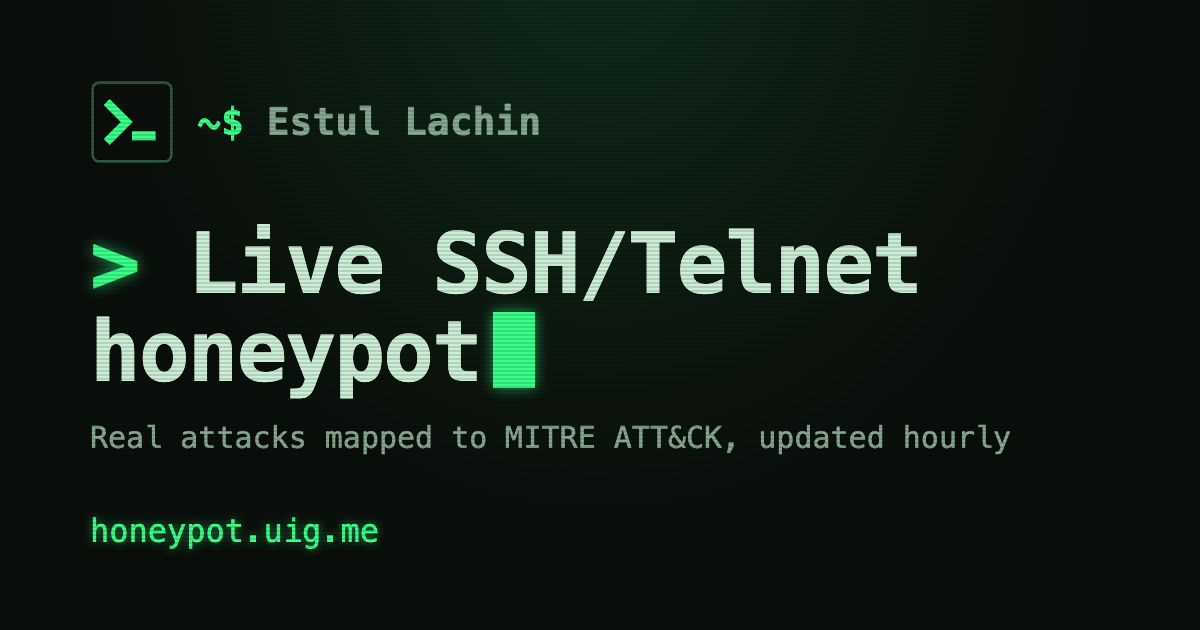
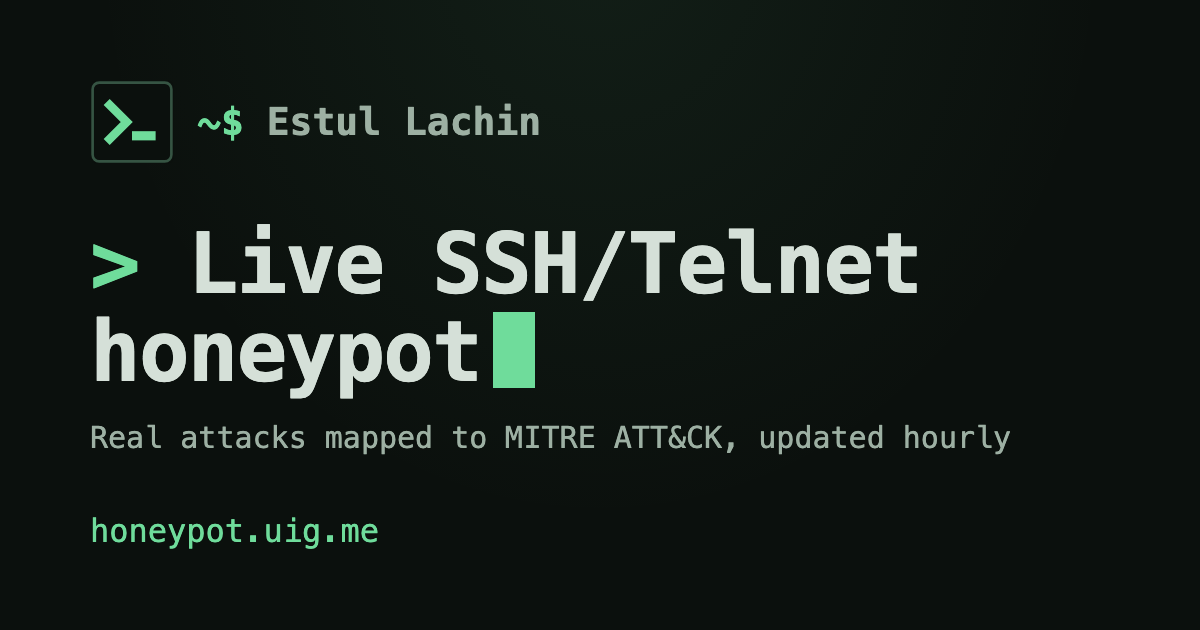
Calmer theme: no glow, no scanlines, softer accent
The neon green, text glow and CRT scanlines were tiring to read. The shared
block now uses a softer accent (#6fdc9b), neutral off-white text, no glow and
no scanline overlay, and the header cursor blinks four times, then stays solid.
The favicon and link-preview image are recoloured to match.

diff --git a/site/style.css b/site/style.css
@@ -4,21 +4,21 @@
 
 
 :root {
-  --bg: #0a0f0b;
-  --surface: #0f1712;
-  --text: #cdeed6;
-  --muted: #86a891;
-  --dim: #6f8f79;
-  --border: #20392a;
-  --border-strong: #2f5a41;
-  --accent: #39ff88;
-  --accent-2: #4fd6ff;
-  --warn: #ffb347;
-  --danger: #ff5c7a;
-  --ok: #39ff88;
-  --chip: #12211a;
-  --code-bg: #0c1a12;
-  --glow: 0 0 6px rgba(57, 255, 136, 0.45);
+  --bg: #0b100d;
+  --surface: #111915;
+  --text: #d5e0d8;
+  --muted: #9db0a3;
+  --dim: #7a8d80;
+  --border: #223329;
+  --border-strong: #365443;
+  --accent: #6fdc9b;
+  --accent-2: #7cc4e4;
+  --warn: #e6b36a;
+  --danger: #ee8090;
+  --ok: #6fdc9b;
+  --chip: #16221c;
+  --code-bg: #0f1813;
+  --glow: none; /* no blurred text: it tires the eyes */
   --radius: 2px;
   --font: ui-monospace, SFMono-Regular, "SF Mono", Menlo, Consolas, "Liberation Mono", monospace;
   --mono: var(--font);
@@ -46,17 +46,10 @@ body {
   margin: 0;
   min-height: 100vh;
   background:
-    radial-gradient(ellipse at 50% -10%, rgba(57, 255, 136, 0.07), transparent 60%),
+    radial-gradient(ellipse at 50% -10%, rgba(111, 220, 155, 0.04), transparent 60%),
     var(--bg);
   color: var(--text);
   font: 15px/1.7 var(--font);
-}
-
-/* CRT scanlines: static, decorative, never intercepts clicks */
-body::before {
-  content: ""; position: fixed; inset: 0; z-index: 100; pointer-events: none;
-  background: repeating-linear-gradient(to bottom, rgba(0, 0, 0, 0) 0, rgba(0, 0, 0, 0) 2px,
-    rgba(0, 0, 0, 0.18) 3px, rgba(0, 0, 0, 0) 4px);
 }
 
 ::selection { background: var(--accent); color: var(--bg); }
@@ -71,7 +64,7 @@ a:hover { text-decoration: underline; text-underline-offset: 3px; text-shadow: v
 [id] { scroll-margin-top: 72px; }
 
 .site-header {
-  border-bottom: 1px solid var(--border); background: rgba(10, 15, 11, 0.85);
+  border-bottom: 1px solid var(--border); background: rgba(11, 16, 13, 0.92);
   position: sticky; top: 0; z-index: 10; backdrop-filter: blur(6px);
 }
 .site-header .wrap { display: flex; align-items: center; justify-content: space-between; height: 56px; gap: 16px; }
@@ -80,7 +73,7 @@ a:hover { text-decoration: underline; text-underline-offset: 3px; text-shadow: v
 .brand::after {
   content: ""; display: inline-block; width: 0.55em; height: 1.05em; margin-left: 4px;
   vertical-align: -0.15em; background: var(--accent); box-shadow: var(--glow);
-  animation: blink 1.1s steps(1) infinite;
+  animation: blink 1.1s steps(1) 4; /* blinks a few times, then stays solid */
 }
 .brand:hover { text-decoration: none; }
 .site-header nav { display: flex; flex-wrap: wrap; gap: 6px 18px; }
@@ -118,7 +111,7 @@ h3 { font-size: 1rem; margin: 0 0 6px; }
     color-scheme: light;
   }
   body { background: #fff; }
-  body::before, .brand::after { display: none; }
+  .brand::after { display: none; }
   * { text-shadow: none !important; box-shadow: none !important; }
   .site-header { position: static; background: #fff; backdrop-filter: none; }
 }
@@ -176,7 +169,7 @@ main.wrap { padding-top: 32px; }
 .tooltip {
   position: absolute; pointer-events: none; background: var(--surface); color: var(--text);
   border: 1px solid var(--accent); border-radius: var(--radius); padding: 6px 10px; font-size: 13px;
-  box-shadow: 0 0 14px rgba(57, 255, 136, 0.2); white-space: nowrap; transform: translate(-50%, calc(-100% - 10px));
+  box-shadow: 0 0 14px rgba(111, 220, 155, 0.12); white-space: nowrap; transform: translate(-50%, calc(-100% - 10px));
 }
 .tooltip b { font-variant-numeric: tabular-nums; }
 

diff --git a/assets/og-image.html b/assets/og-image.html
@@ -3,26 +3,22 @@
 <html><head><meta charset="utf-8"><style>
   html, body { margin: 0; width: 1200px; height: 630px; overflow: hidden; }
   body {
-    background: radial-gradient(ellipse at 50% -10%, rgba(57,255,136,0.12), transparent 60%), #0a0f0b;
-    color: #cdeed6; box-sizing: border-box; padding: 80px 90px; position: relative;
+    background: radial-gradient(ellipse at 50% -10%, rgba(111,220,155,0.07), transparent 60%), #0b100d;
+    color: #d5e0d8; box-sizing: border-box; padding: 80px 90px; position: relative;
     font-family: ui-monospace, SFMono-Regular, "SF Mono", Menlo, monospace;
     display: flex; flex-direction: column;
   }
-  body::before {
-    content: ""; position: absolute; inset: 0;
-    background: repeating-linear-gradient(to bottom, transparent 0, transparent 2px, rgba(0,0,0,0.25) 3px, transparent 4px);
-  }
   .top { display: flex; align-items: center; gap: 24px; }
   .top img { width: 84px; height: 84px; }
-  .name { font-size: 38px; font-weight: 600; color: #86a891; }
-  .name::before { content: "~$ "; color: #39ff88; }
+  .name { font-size: 38px; font-weight: 600; color: #9db0a3; }
+  .name::before { content: "~$ "; color: #6fdc9b; }
   h1 { font-size: 84px; line-height: 1.05; margin: 56px 0 24px; letter-spacing: -0.02em; }
-  h1::before { content: "> "; color: #39ff88; text-shadow: 0 0 14px rgba(57,255,136,0.6); }
+  h1::before { content: "> "; color: #6fdc9b; }
   h1::after { content: ""; display: inline-block; width: 0.5em; height: 0.9em; margin-left: 12px; vertical-align: -0.08em;
-    background: #39ff88; box-shadow: 0 0 14px rgba(57,255,136,0.6); }
-  .by { font-size: 30px; color: #86a891; }
-  .url span { color: #2f5a41; }
-  .url { margin-top: auto; font-size: 32px; color: #39ff88; text-shadow: 0 0 10px rgba(57,255,136,0.5); }
+    background: #6fdc9b; }
+  .by { font-size: 30px; color: #9db0a3; }
+  .url span { color: #365443; }
+  .url { margin-top: auto; font-size: 32px; color: #6fdc9b; }
 </style></head><body>
   <div class="top"><img src="favicon.svg" alt=""><span class="name">Estul Lachin</span></div>
   <h1>Live SSH/Telnet honeypot</h1>
